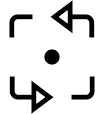
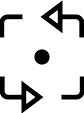
new shadow for graph buttons

diff --git a/style/app.scss b/style/app.scss
@@ -569,10 +569,10 @@ a:active
 {
   text-align       : center;
   background-color : #ffffff;
-  border           : solid 1px #5c497e;
-  border-radius    : 6px;
   outline          : none;
   font-size        : 14px;
+  border-radius    : 6px;
+  // border           : solid 1px #5c497e;
   font-weight      : bold;
   color            : #5c497e;
   cursor           : pointer;
@@ -597,34 +597,33 @@ a:active
 
 .graph-control-button:disabled
 {
-  // border           : solid 1px #9c9c9c;
   background-color : #dedede;
   color            : #9c9c9c;
 }
 
 .graph-control-button img {
-  width: inherit;
+  width: 90%;
   height: inherit;
 }
 
 #zoom-in-button
 {
-  // top   : 4px;
-  // right : 30px;
   position:relative;
 }
 
 #zoom-out-button
 {
   position: relative;
-  // top   : 34px;
-  // right : 30px;
 }
 
 #reset-view-button
 {
-  top   : 70px;
-  right : 30px;
+  top            : 70px;
+  right          : 30px;
+  box-shadow     : 1px 0px 5px 0px #5c497e ;
+  display        : flex;
+  align-items    : center;
+  justify-content: center;
 }
 
 .opened
@@ -2515,8 +2514,16 @@ main-filter input
   top   : 4px;
   right : 30px;
   position:absolute;
-  box-shadow: 5px 8px 5px 0px #5c497e ;
+  box-shadow: 1px 0px 5px 0px #5c497e ;
   display:flex;
   flex-direction: column;
-  background-color: #ffffff;
+  background-color: rgb(140, 158, 140);
+  border-radius: 6px;
+  overflow: hidden;
+}
+
+.graph-zoom-button
+{
+  border: none;
+  border-radius: 0px;
 }

diff --git a/js/components/graph/Graph.js b/js/components/graph/Graph.js
@@ -723,12 +723,14 @@ export default class Graph extends React.Component {
           <Button
             divId="zoom-in-button"
             text="+"
+            additionalClasses="graph-zoom-button"
             mouseDown={() => this.zoomViewbox(ZOOM_ENUM.ZOOM_IN)}
             onMouseEnter={this.buttonMouseEnter}
             onMouseLeave={this.buttonMouseLeave}
           />
           <Button
             divId="zoom-out-button"
+            additionalClasses="graph-zoom-button"
             text="&mdash;"
             mouseDown={() => this.zoomViewbox(ZOOM_ENUM.ZOOM_OUT)}
             onMouseEnter={this.buttonMouseEnter}

diff --git a/js/components/graph/Button.js b/js/components/graph/Button.js
@@ -5,7 +5,7 @@ export default function Button(props) {
   return (
     <button
       id={props.divId}
-      className="graph-control-button"
+      className={"graph-control-button " + props.additionalClasses}
       onMouseDown={props.mouseDown}
       onMouseUp={props.mouseUp}
       onMouseEnter={props.onMouseEnter}
@@ -26,5 +26,6 @@ Button.propTypes = {
   onMouseLeave: PropTypes.func,
   disabled: PropTypes.bool,
   text: PropTypes.string,
-  children: PropTypes.node
+  children: PropTypes.node,
+  additionalClasses: PropTypes.string
 };
